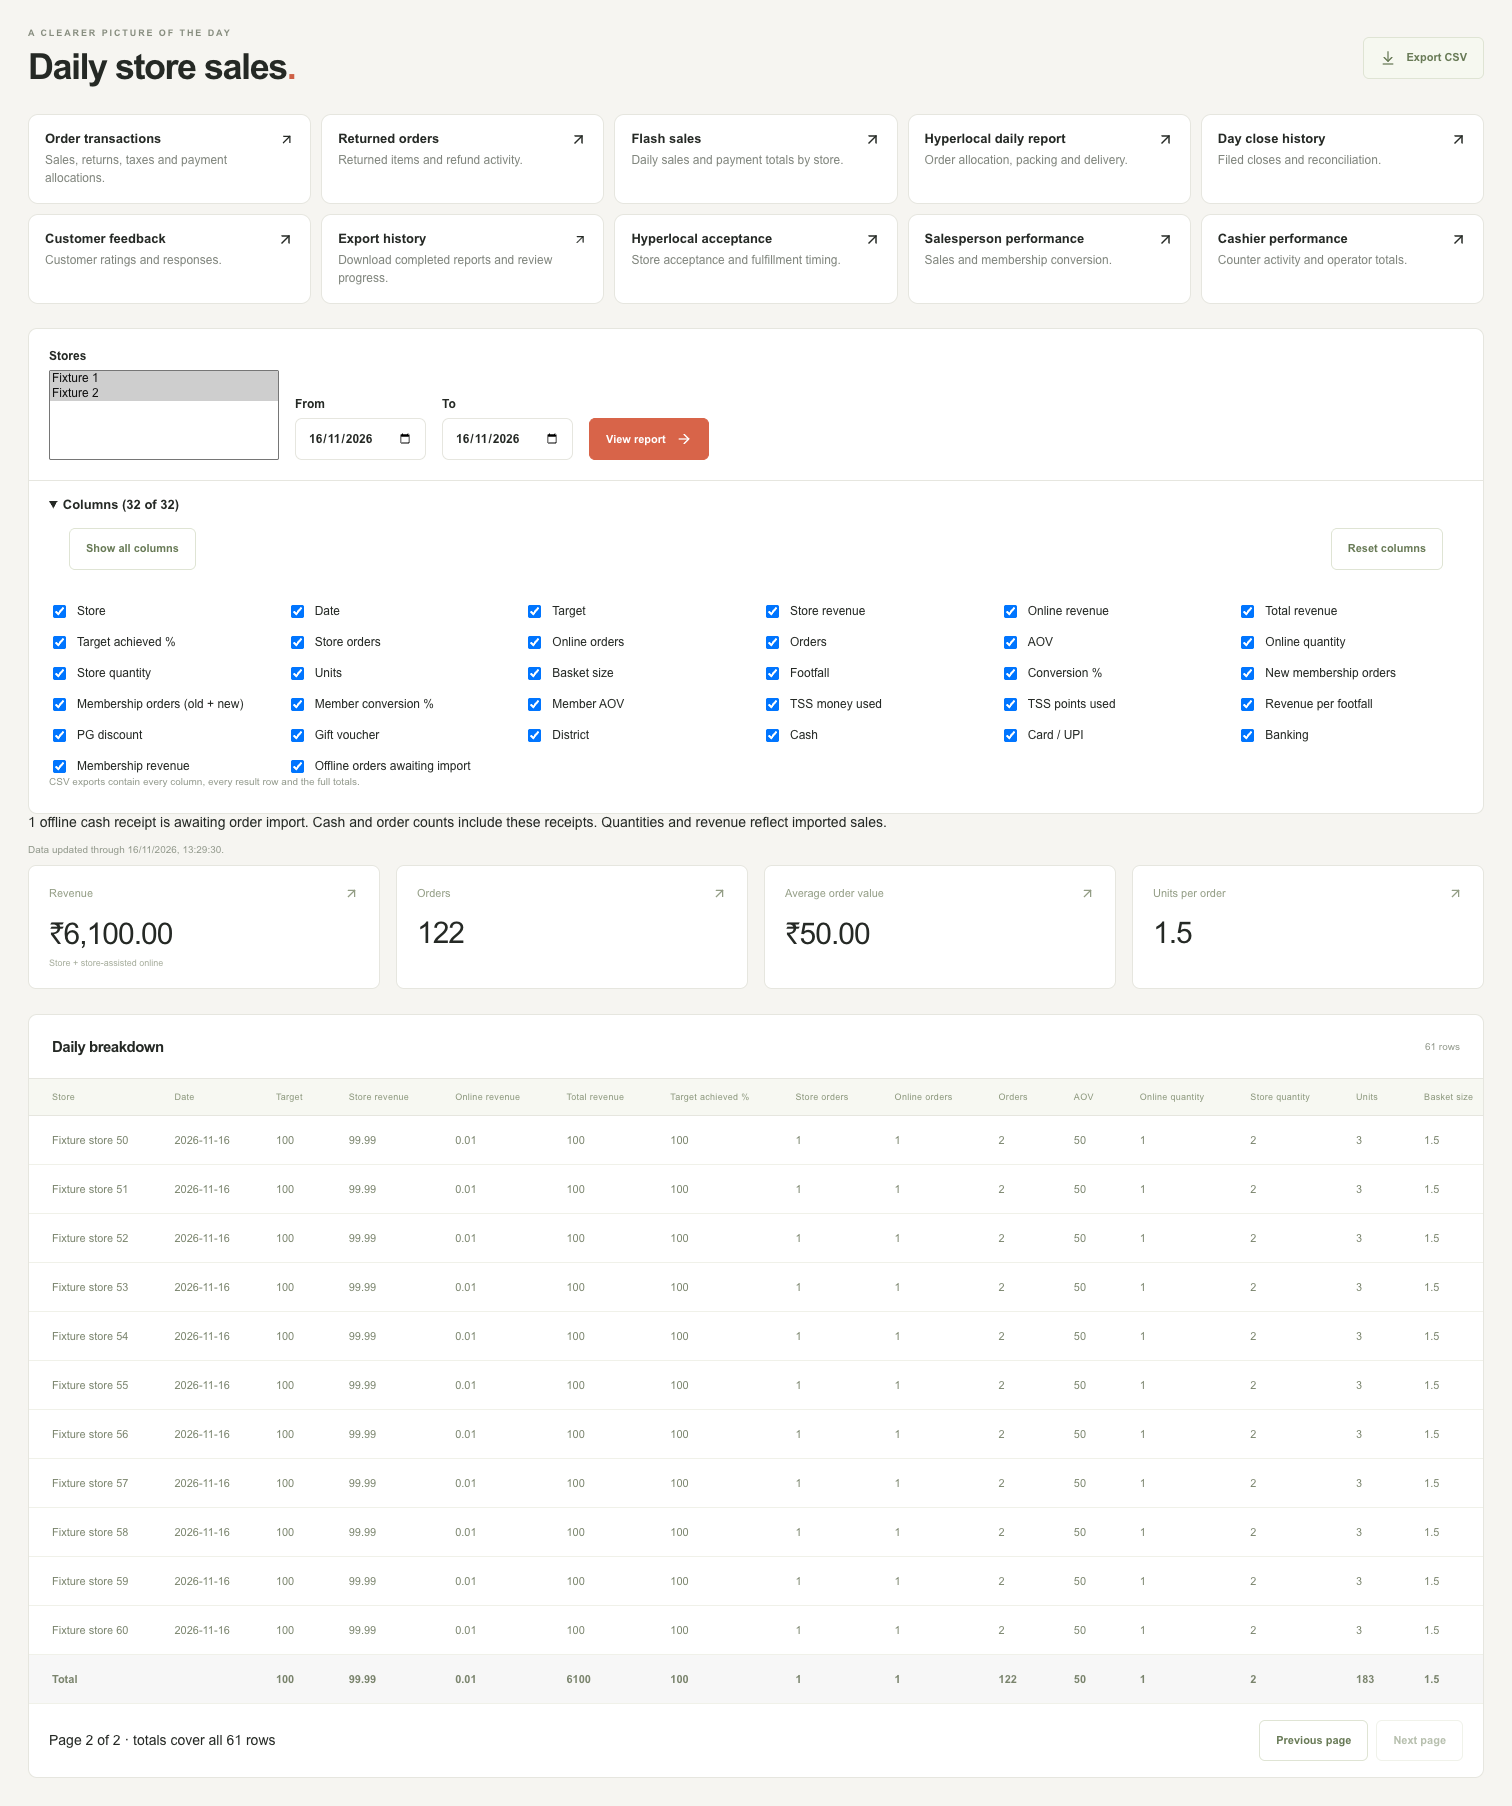
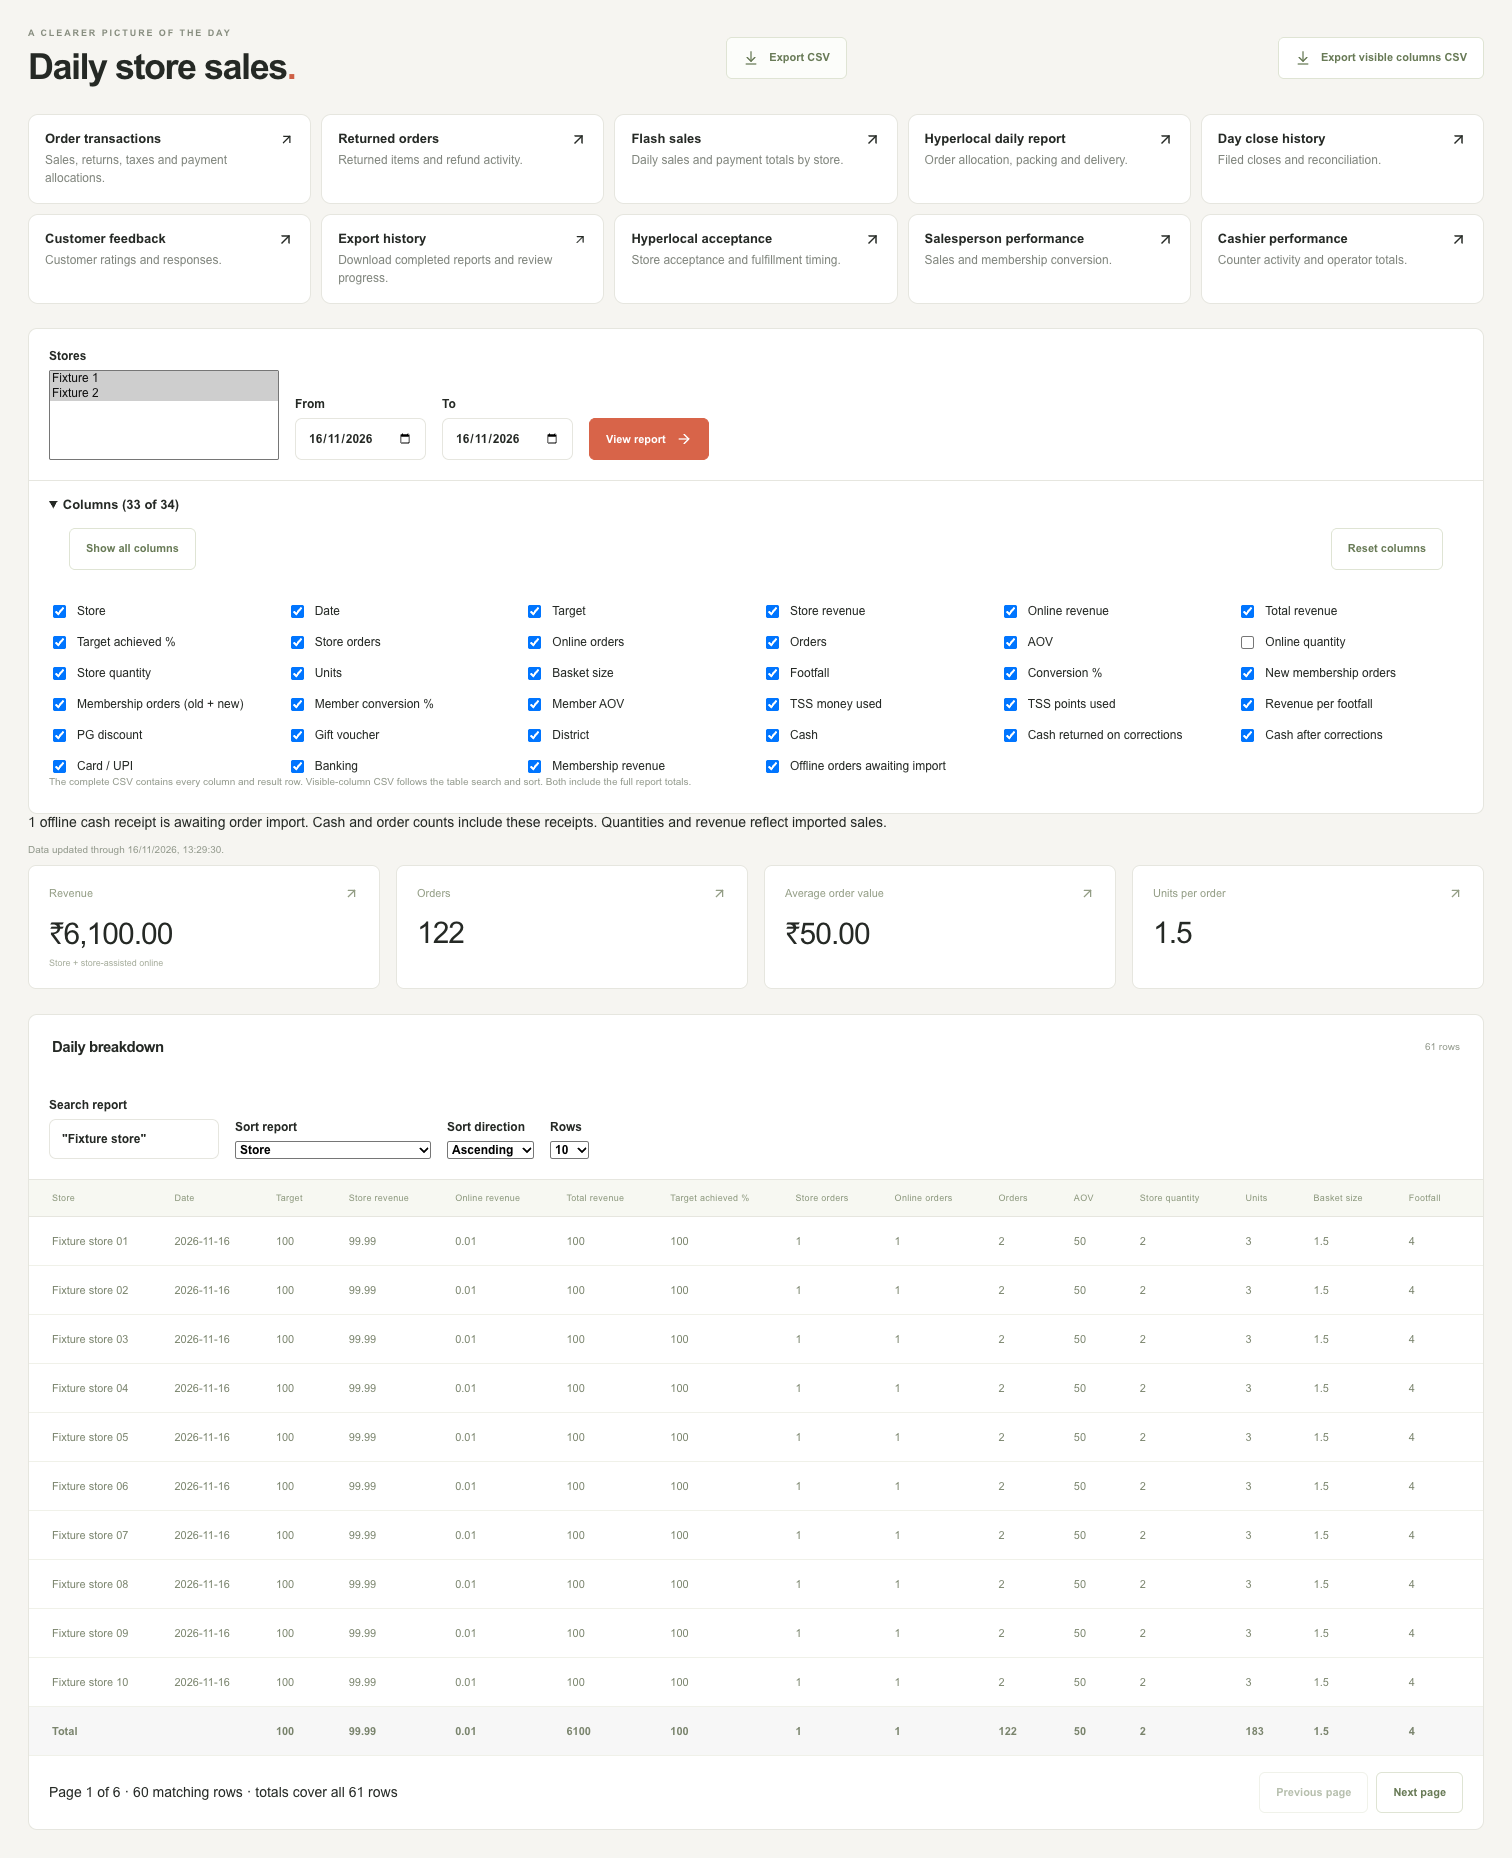
Verify daily and report CSV workflows with isolated browser gates

diff --git a/frontend/src/pages/reports.tsx b/frontend/src/pages/reports.tsx
@@ -393,6 +393,7 @@ export function ReportsPage({ user, storeId }: { user: Principal; storeId: strin
               <label>
                 Sort report
                 <select
+                  aria-label="Sort report"
                   value={sort}
                   onChange={(event) => {
                     const selected = dailyReportFields.find(([key]) => key === event.target.value);
@@ -410,6 +411,7 @@ export function ReportsPage({ user, storeId }: { user: Principal; storeId: strin
               <label>
                 Sort direction
                 <select
+                  aria-label="Sort direction"
                   value={direction}
                   onChange={(event) => {
                     setDirection(event.target.value === 'asc' ? 'asc' : 'desc');
@@ -423,6 +425,7 @@ export function ReportsPage({ user, storeId }: { user: Principal; storeId: strin
               <label>
                 Rows
                 <select
+                  aria-label="Rows"
                   value={pageSize}
                   onChange={(event) => {
                     setPageSize(Number(event.target.value));

diff --git a/backend/tools/verify-project.ts b/backend/tools/verify-project.ts
@@ -738,9 +738,7 @@ const checks: Check[] = [
     args: [
       'node_modules/vitest/vitest.mjs',
       'run',
-      ...(flags.has('--mysql')
-        ? ['--maxWorkers=1', '--no-file-parallelism']
-        : ['--maxWorkers=4']),
+      ...(flags.has('--mysql') ? ['--maxWorkers=1', '--no-file-parallelism'] : ['--maxWorkers=4']),
     ],
     timeoutMs: flags.has('--mysql') ? 20 * 60 * 1000 : 10 * 60 * 1000,
   },
@@ -1210,6 +1208,21 @@ if (flags.has('--mysql')) {
   );
 }
 if (flags.has('--browser')) {
+  checks.push({
+    id: 'daily-reports-browser-tests',
+    directory: 'frontend',
+    args: ['tools/run-browser-fixture.mjs', 'daily-reports'],
+  });
+  checks.push({
+    id: 'report-columns-browser-tests',
+    directory: 'frontend',
+    args: [
+      '--import',
+      '../backend/node_modules/tsx/dist/loader.mjs',
+      'tools/run-browser-fixture.mjs',
+      'report-columns',
+    ],
+  });
   checks.push({
     id: 'order-search-browser-tests',
     directory: 'frontend',

diff --git a/CHECKPOINT.md b/CHECKPOINT.md
@@ -1,10 +1,11 @@
 # POS rewrite checkpoint
 
-Implementation is active again. The earlier closure at `fdbc650` was disproved
-by review of active source controls. The source map now retains explicit gaps
-for manager return-window extensions, report presentation/export variants,
-selected-store static QR/details and administration list controls. Preserve all
-396 source IDs and external release gates; code presence is not certification.
+The active-control implementation pass is reconciled on `d12d250` after the
+deliveries below. All 396 original IDs remain: 100 implementation-present,
+292 external-acceptance, zero identified missing active implementation groups,
+and four explicitly inactive/diagnostic exclusions. No certifications are
+added. This supersedes the earlier closure at `fdbc650`, which was disproved
+by review of actual source controls. Code presence is not production readiness.
 
 Report controls are integrated on `e6f4a09`, with separate full/visible actions
 on flash-sales and returned-orders on `387cd7b`. Administration collection
@@ -15,19 +16,27 @@ The credential-free terminal directory, provider/scope filters, pagination,
 column visibility and both CSV actions are on `9ec375b`. The integrated
 backend/frontend strict programs compile; this is not workflow certification.
 
-Still being implemented: source export-history table controls and cash-ledger
-row options (reporting owner). The payment owner verified that the original
+Export-history, cash-ledger row options and day-close current-page CSV are
+integrated on `3bab30a`; daily-report search, sort, rows and selected-column CSV
+are on `a9d76fe`. The payment owner verified that the original
 upload-log routes and both views are commented out at the pinned commit;
 the earlier active-list gap inference is retracted. Its failed-record download
-target is being checked independently for an active route and actual mapping.
+route and class are independently verified commented out too.
 Do not invent a new list workflow from the dormant referring template. The
 administration owner's source review found catalogue/gift/special-permission
-controls present in actual implementation; its exact evidence is being saved.
+controls present in actual implementation; evidence is saved on `e72164a`.
 The pinned static candidate inventory is
 `backend/parity/legacy-template-controls.review.json` (106 templates); its
 finite control names/locations are an audit aid, not coverage certification.
-Reconcile the source map after actual deliveries, then resume consolidated
-validation. Do not restart the broad gate while known code gaps remain.
+The validation phase has now started in isolated worktrees. The actual daily
+report component passed seven Chromium checks on Node 24.22.3, and six report
+component-to-builder CSV workflows passed. Both are local synthetic workflows,
+not source/production certification. Both browser groups now join the full
+verifier, with owned temporary Vite caches and automatic cleanup. Terminal
+native tests found a genuine mixed-collation union failure; its owner is fixing
+it before the full gate. Reporting validation is correcting legacy NULL/empty
+period preservation. Root is not running the consolidated gate while these
+known corrections are still being integrated. All release gates remain open.
 
 The `fde67f5` verifier was intentionally interrupted after two completed checks
 when the active return-window gap was confirmed. Its partial report is retained

diff --git a/backend/parity/daily-report-offline.md b/backend/parity/daily-report-offline.md
@@ -38,7 +38,15 @@ its original unfiltered data, columns and totals. Both retain the full server
 totals rather than recalculating financial totals from a page or text search.
 Column display labels and presentation remain intentionally redesigned.
 
-This records implementation, not fresh runtime or CSV-byte certification.
-Source/browser qualification of smart-search, null/numeric sorting, multirow
-headings/totals and both exports remains in the deferred validation phase.
+The actual React component now passes seven isolated Chromium checks on Node
+24.22.3: all 34 source/additive columns, correction values and full totals,
+quoted search, sorting and page lengths without another report query,
+all-matching selected-column CSV, formula protection, and byte-identical
+complete CSV before/after local filtering. Saved evidence is
+`parity/evidence/reports/browser.json`; HTTP/warehouse facts are synthetic.
+The fixture runner is included in the consolidated `--browser` gate and uses
+an owned temporary Vite cache with automatic server/cache cleanup.
+This is not deployed source-workflow or original CSV-byte certification.
+Source-browser qualification of smart-search, null/numeric sorting and original
+multirow headings/totals remains in the validation phase.
 
